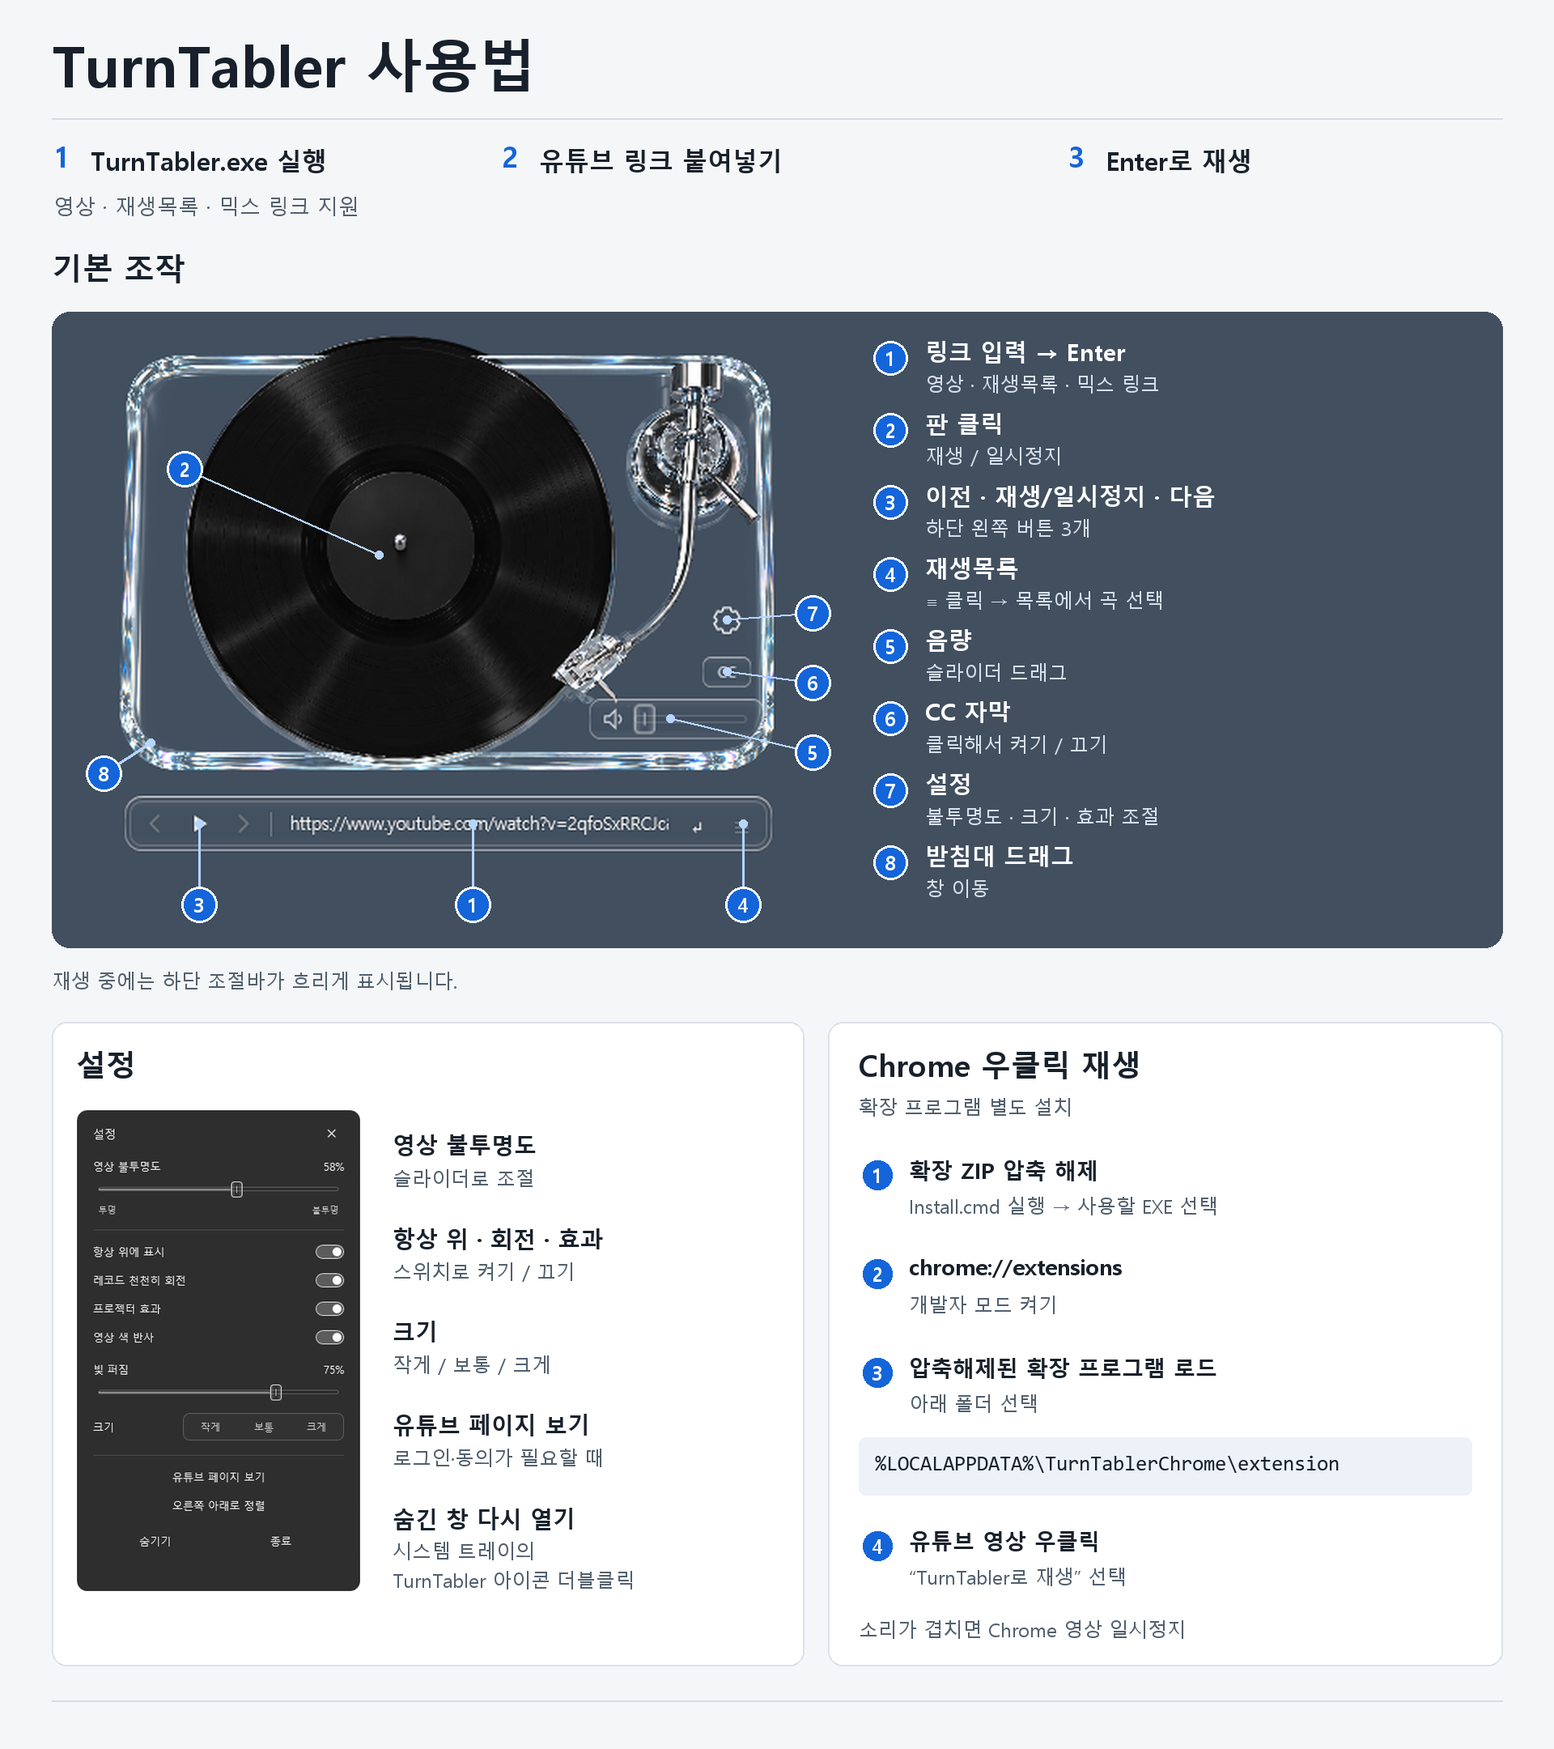
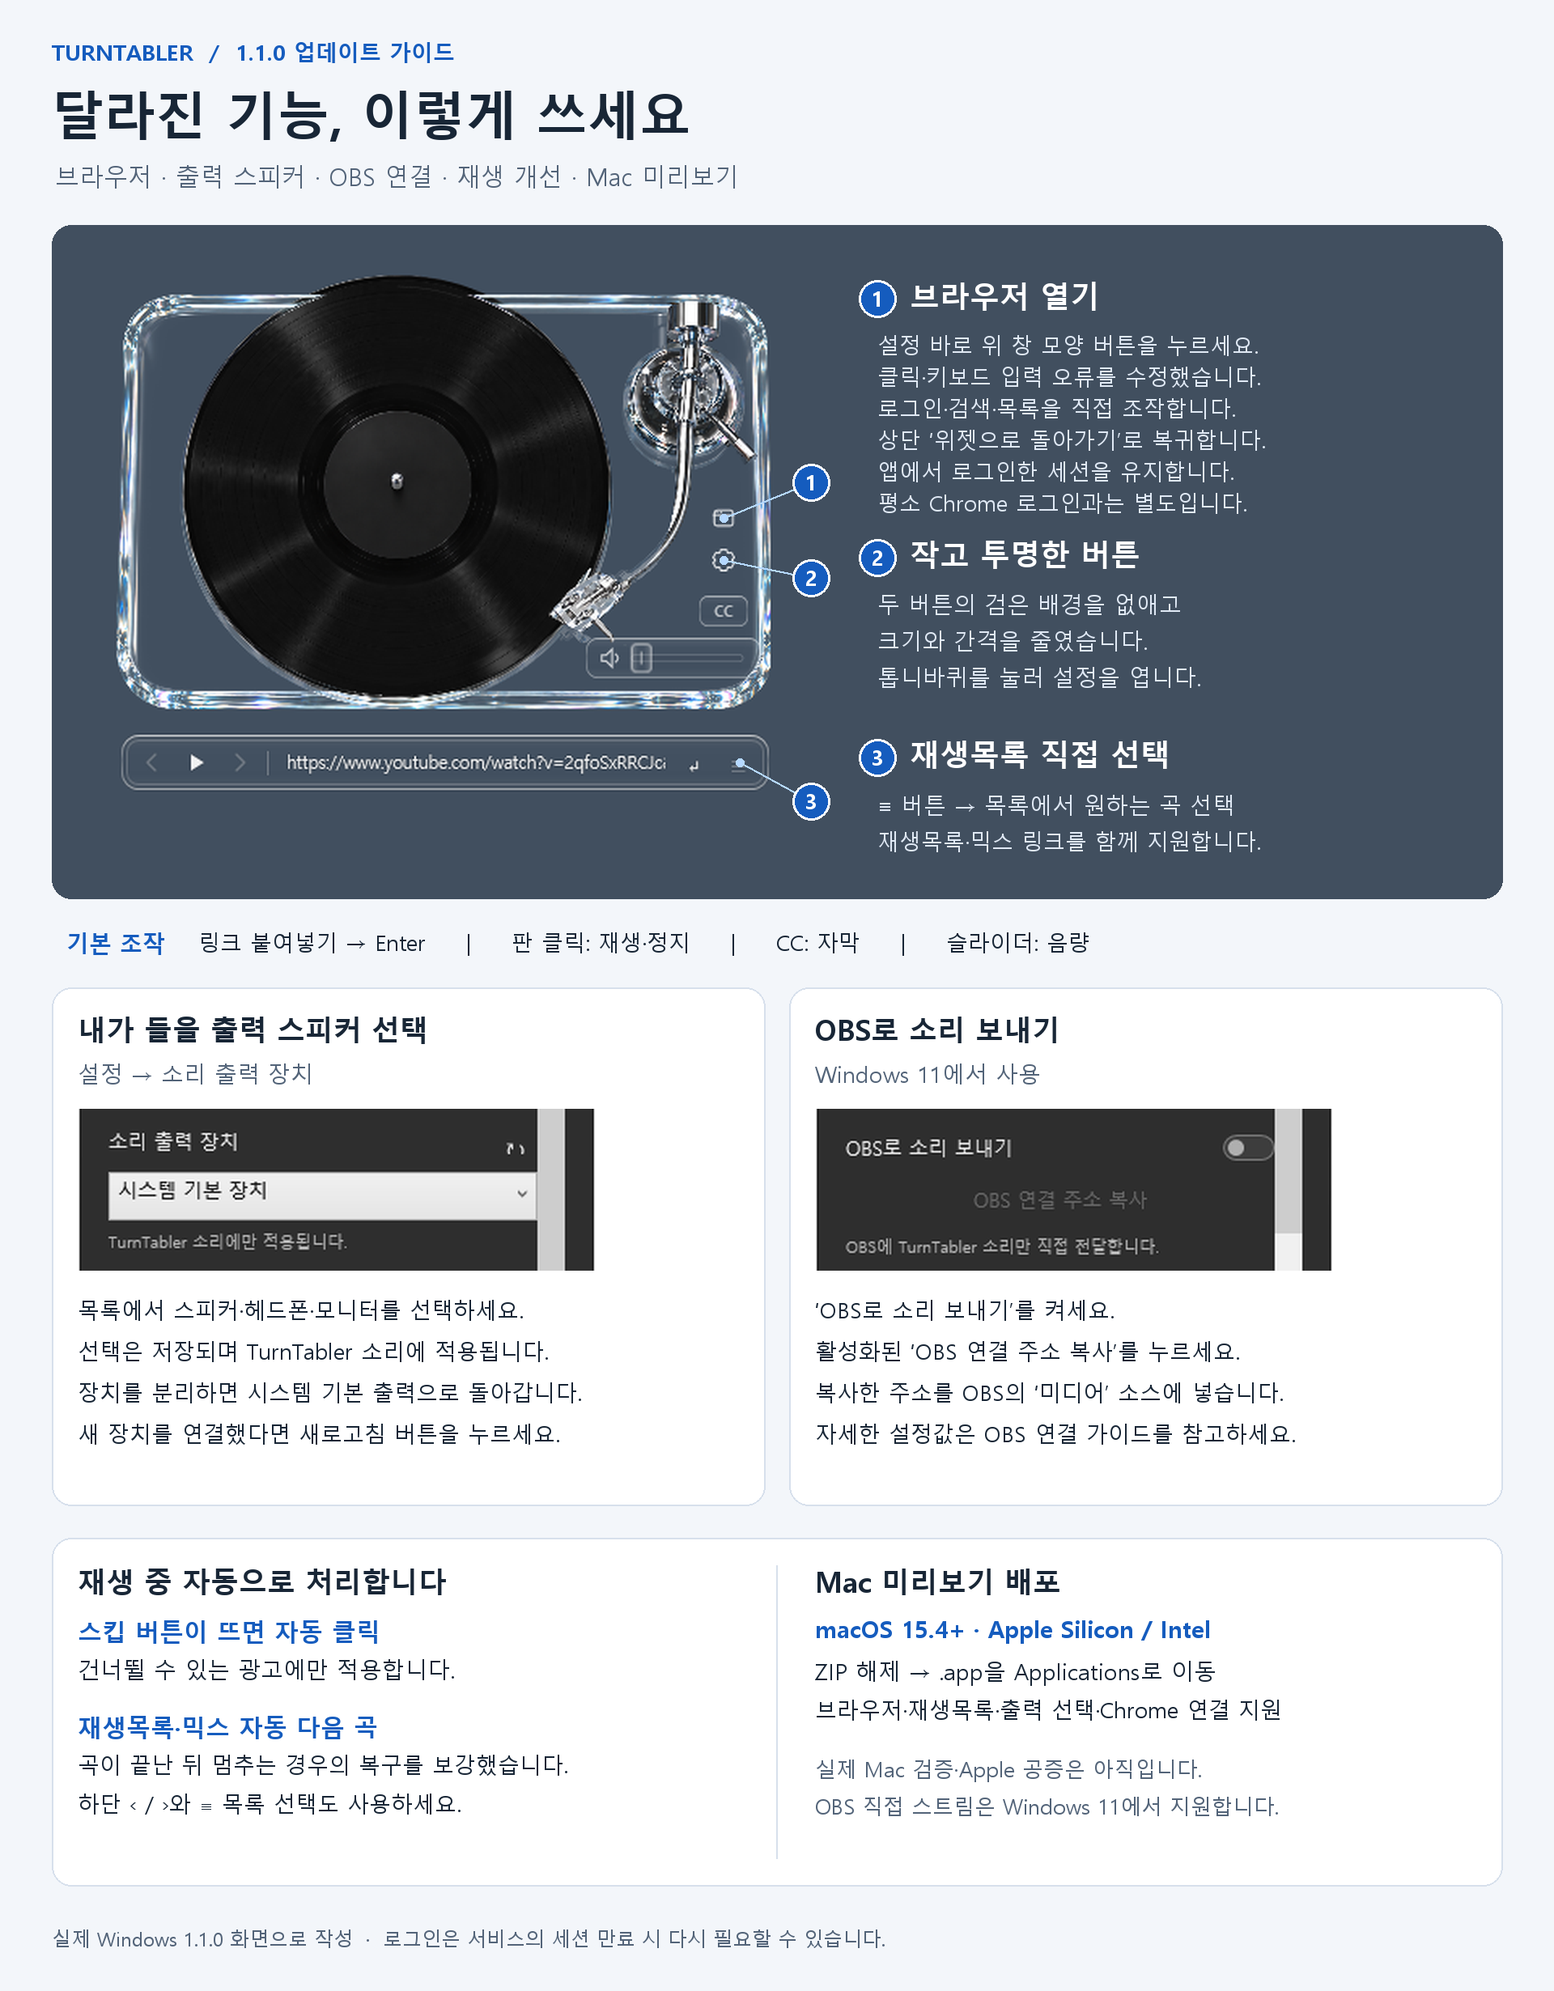
Publish 1.1.0 visual guides for new controls and OBS audio

diff --git a/scripts/create-usage-guide.py b/scripts/create-usage-guide.py
@@ -1,132 +1,213 @@
-"""Compose the guide from screenshots captured by the running native app."""
+"""Lay out Korean release guides using unmodified captures of the 1.1.0 app.
+
+Run publish.ps1 -Test first to refresh artifacts/single-file, then this script.
+Screenshots are cropped/resized without changing their controls or displayed state.
+"""
 from pathlib import Path
 from PIL import Image, ImageDraw, ImageFont
 
 ROOT = Path(__file__).resolve().parents[1]
-CAPTURES = ROOT / 'artifacts' / 'guide-captures'
-OUTPUT = ROOT / 'output' / 'TurnTabler-guide-ko.png'
-W, H = 1920, 2160
-PAGE = '#f5f6f8'
-INK = '#18212b'
-MUTED = '#52606e'
-BLUE = '#1465d9'
-DECK = '#414f5f'
-canvas = Image.new('RGB', (W, H), PAGE)
-draw = ImageDraw.Draw(canvas)
+CAPTURES = ROOT / 'artifacts' / 'single-file'
+OUTPUT = ROOT / 'output'
+W = 1920
+PAGE, INK, MUTED = '#f3f6fa', '#182636', '#536479'
+BLUE, PALE, BORDER, DECK = '#155cbe', '#e7effb', '#d7e0ec', '#414f5f'
+
 
 def font(size, bold=False, mono=False):
     name = 'consola.ttf' if mono else 'malgunbd.ttf' if bold else 'malgun.ttf'
     return ImageFont.truetype(str(Path('C:/Windows/Fonts') / name), size)
 
-def text(x, y, value, size=30, bold=False, fill=INK, mono=False):
-    draw.text((x, y), value, font=font(size, bold, mono), fill=fill, anchor='lt')
 
-def line(x1, y1, x2, y2, fill='#d5dce4', width=2):
-    draw.line((x1, y1, x2, y2), fill=fill, width=width)
+class Guide:
+    def __init__(self, height):
+        self.image = Image.new('RGB', (W, height), PAGE)
+        self.draw = ImageDraw.Draw(self.image)
 
-def badge(x, y, number, radius=22, fill=BLUE):
-    draw.ellipse((x-radius, y-radius, x+radius, y+radius), fill=fill, outline='white', width=3)
-    draw.text((x, y-1), str(number), font=font(25, True), fill='white', anchor='mm')
+    def text(self, x, y, value, size=28, bold=False, fill=INK, mono=False, width=None):
+        face = font(size, bold, mono)
+        available = width if width is not None else W - 64 - x
+        assert self.draw.textlength(value, font=face) <= available, f'Text too wide: {value}'
+        self.draw.text((x, y), value, font=face, fill=fill, anchor='lt')
 
-def screenshot(filename, box):
-    # Preserve the captured UI; only resize and alpha-composite onto the page.
-    img = Image.open(CAPTURES / filename).convert('RGBA')
-    x, y, width, height = box
-    assert abs(height - img.height * width / img.width) <= 0.5, 'Do not distort screenshots'
-    img = img.resize((width, height), Image.Resampling.LANCZOS)
-    canvas.paste(img, (x, y), img)
+    def line(self, x1, y1, x2, y2, fill=BORDER, width=2):
+        self.draw.line((x1, y1, x2, y2), fill=fill, width=width)
 
-text(64, 48, 'TurnTabler 사용법', 70, True)
-line(64, 146, 1856, 146)
+    def card(self, box, fill='white', outline=BORDER, radius=24):
+        self.draw.rounded_rectangle(box, radius, fill=fill, outline=outline, width=2)
 
-text(66, 181, '1', 35, True, BLUE)
-text(112, 184, 'TurnTabler.exe 실행', 31, True)
-text(620, 181, '2', 35, True, BLUE)
-text(666, 184, '유튜브 링크 붙여넣기', 31, True)
-text(1320, 181, '3', 35, True, BLUE)
-text(1366, 184, 'Enter로 재생', 31, True)
-text(66, 243, '영상 · 재생목록 · 믹스 링크 지원', 26, fill=MUTED)
+    def badge(self, x, y, number, radius=23):
+        self.draw.ellipse((x-radius, y-radius, x+radius, y+radius), fill=BLUE, outline='white', width=3)
+        self.draw.text((x, y-1), str(number), font=font(26, True), fill='white', anchor='mm')
 
-text(64, 314, '기본 조작', 38, True)
-draw.rounded_rectangle((64, 385, 1856, 1170), 22, fill=DECK)
-# Actual app capture, at 2x; no fabricated UI elements.
-sx, sy = 94, 385
-screenshot('idle-on-background.png', (sx, sy, 920, 780))
+    def screenshot(self, filename, x, y, width, crop=None):
+        with Image.open(CAPTURES / filename) as source:
+            source = source.convert('RGBA')
+            if crop:
+                source = source.crop(crop)
+            height = round(source.height * width / source.width)
+            source = source.resize((width, height), Image.Resampling.LANCZOS)
+            self.image.paste(source, (x, y), source)
+            return height
+
+    def arrow(self, x1, y, x2):
+        self.line(x1, y, x2, y, BLUE, 5)
+        self.draw.polygon([(x2, y), (x2-17, y-11), (x2-17, y+11)], fill=BLUE)
+
+    def save(self, name):
+        OUTPUT.mkdir(parents=True, exist_ok=True)
+        target = OUTPUT / name
+        self.image.save(target, optimize=True)
+        print(target)
+
+
+with Image.open(CAPTURES / 'idle-on-background.png') as capture:
+    assert capture.size == (460, 390)
+with Image.open(CAPTURES / 'tray-options.png') as capture:
+    assert capture.size == (320, 650), 'Refresh the captures with the 1.1.0 app'
+
+g = Guide(2460)
+g.text(64, 52, 'TURNTABLER  /  1.1.0 업데이트 가이드', 27, True, BLUE)
+g.text(64, 112, '달라진 기능, 이렇게 쓰세요', 64, True)
+g.text(68, 204, '브라우저 · 출력 스피커 · OBS 연결 · 재생 개선 · Mac 미리보기', 30, fill=MUTED)
+g.card((64, 278, 1856, 1110), DECK, DECK)
+sx, sy = 90, 310
+g.screenshot('idle-on-background.png', sx, sy, 920)
+
 
 def callout(number, target, marker):
     tx, ty = sx + target[0]*2, sy + target[1]*2
     mx, my = sx + marker[0]*2, sy + marker[1]*2
-    line(tx, ty, mx, my, '#b6d5ff', 3)
-    draw.ellipse((tx-5, ty-5, tx+5, ty+5), fill='#b6d5ff')
-    badge(mx, my, number)
+    g.line(tx, ty, mx, my, '#b5d8ff', 3)
+    g.draw.ellipse((tx-5, ty-5, tx+5, ty+5), fill='#b5d8ff')
+    g.badge(mx, my, number)
 
-callout(1, (245, 316), (245, 366))
-callout(2, (187, 150), (67, 97))
-callout(3, (76, 316), (76, 366))
-callout(4, (412, 316), (412, 366))
-callout(5, (367, 251), (455, 272))
-callout(6, (402, 222), (455, 229))
-callout(7, (402, 190), (455, 186))
-callout(8, (46, 266), (17, 285))
 
-items = [
-    ('링크 입력 → Enter', '영상 · 재생목록 · 믹스 링크'),
-    ('판 클릭', '재생 / 일시정지'),
-    ('이전 · 재생/일시정지 · 다음', '하단 왼쪽 버튼 3개'),
-    ('재생목록', '≡ 클릭 → 목록에서 곡 선택'),
-    ('음량', '슬라이더 드래그'),
-    ('CC 자막', '클릭해서 켜기 / 끄기'),
-    ('설정', '불투명도 · 크기 · 효과 조절'),
-    ('받침대 드래그', '창 이동'),
-]
-for index, (heading, body) in enumerate(items, 1):
-    y = 421 + (index-1)*89
-    badge(1100, y+21, index, 21)
-    text(1143, y, heading, 29, True, 'white')
-    text(1143, y+42, body, 24, fill='#d7e1ec')
+callout(1, (402, 165), (456, 143))
+callout(2, (402, 191), (456, 202))
+callout(3, (412, 316), (456, 340))
+g.badge(1084, 369, 1)
+g.text(1124, 348, '브라우저 열기', 37, True, 'white')
+for index, value in enumerate([
+    '설정 바로 위 창 모양 버튼을 누르세요.',
+    '클릭·키보드 입력 오류를 수정했습니다.',
+    '로그인·검색·목록을 직접 조작합니다.',
+    '상단 ‘위젯으로 돌아가기’로 복귀합니다.',
+    '앱에서 로그인한 세션을 유지합니다.',
+    '평소 Chrome 로그인과는 별도입니다.',
+]):
+    g.text(1084, 414 + index*39, value, 27, fill='#e0e9f5', width=732)
+g.badge(1084, 689, 2)
+g.text(1124, 668, '작고 투명한 버튼', 37, True, 'white')
+g.text(1084, 734, '두 버튼의 검은 배경을 없애고', 28, fill='#e0e9f5')
+g.text(1084, 779, '크기와 간격을 줄였습니다.', 28, fill='#e0e9f5')
+g.text(1084, 824, '톱니바퀴를 눌러 설정을 엽니다.', 28, fill='#e0e9f5')
+g.badge(1084, 936, 3)
+g.text(1124, 915, '재생목록 직접 선택', 37, True, 'white')
+g.text(1084, 982, '≡ 버튼 → 목록에서 원하는 곡 선택', 28, fill='#e0e9f5')
+g.text(1084, 1027, '재생목록·믹스 링크를 함께 지원합니다.', 27, fill='#e0e9f5')
+g.text(82, 1152, '기본 조작', 28, True, BLUE)
+g.text(245, 1152, '링크 붙여넣기 → Enter     |     판 클릭: 재생·정지     |     CC: 자막     |     슬라이더: 음량', 27)
 
-text(64, 1200, '재생 중에는 하단 조절바가 흐리게 표시됩니다.', 24, fill=MUTED)
+g.card((64, 1220, 945, 1860))
+g.text(96, 1256, '내가 들을 출력 스피커 선택', 35, True)
+g.text(96, 1314, '설정 → 소리 출력 장치', 28, fill=MUTED)
+g.screenshot('tray-options.png', 96, 1370, 640, (0, 390, 320, 490))
+for index, value in enumerate([
+    '목록에서 스피커·헤드폰·모니터를 선택하세요.',
+    '선택은 저장되며 TurnTabler 소리에 적용됩니다.',
+    '장치를 분리하면 시스템 기본 출력으로 돌아갑니다.',
+    '새 장치를 연결했다면 새로고침 버튼을 누르세요.',
+]):
+    g.text(96, 1606 + index*51, value, 27, width=817)
+g.card((975, 1220, 1856, 1860))
+g.text(1007, 1256, 'OBS로 소리 보내기', 35, True)
+g.text(1007, 1314, 'Windows 11에서 사용', 28, fill=MUTED)
+g.screenshot('tray-options.png', 1007, 1370, 640, (0, 491, 320, 591))
+for index, value in enumerate([
+    '‘OBS로 소리 보내기’를 켜세요.',
+    '활성화된 ‘OBS 연결 주소 복사’를 누르세요.',
+    '복사한 주소를 OBS의 ‘미디어’ 소스에 넣습니다.',
+    '자세한 설정값은 OBS 연결 가이드를 참고하세요.',
+]):
+    g.text(1007, 1606 + index*51, value, 27, width=817)
 
-# The settings image is also a capture from the running native application.
-draw.rounded_rectangle((64, 1262, 993, 2057), 18, fill='white', outline='#dce1e8', width=2)
-text(94, 1298, '설정', 37, True)
-screenshot('tray-options.png', (94, 1370, 352, 596))
+g.card((64, 1900, 1856, 2330))
+g.line(959, 1934, 959, 2296)
+g.text(96, 1938, '재생 중 자동으로 처리합니다', 35, True)
+g.text(96, 2002, '스킵 버튼이 뜨면 자동 클릭', 30, True, BLUE)
+g.text(96, 2050, '건너뛸 수 있는 광고에만 적용합니다.', 28)
+g.text(96, 2120, '재생목록·믹스 자동 다음 곡', 30, True, BLUE)
+g.text(96, 2168, '곡이 끝난 뒤 멈추는 경우의 복구를 보강했습니다.', 27, width=823)
+g.text(96, 2216, '하단 ‹ / ›와 ≡ 목록 선택도 사용하세요.', 27)
+g.text(1007, 1938, 'Mac 미리보기 배포', 35, True)
+g.text(1007, 2002, 'macOS 15.4+ · Apple Silicon / Intel', 29, True, BLUE)
+g.text(1007, 2052, 'ZIP 해제 → .app을 Applications로 이동', 28)
+g.text(1007, 2100, '브라우저·재생목록·출력 선택·Chrome 연결 지원', 27, width=817)
+g.text(1007, 2174, '실제 Mac 검증·Apple 공증은 아직입니다.', 26, fill=MUTED)
+g.text(1007, 2220, 'OBS 직접 스트림은 Windows 11에서 지원합니다.', 26, fill=MUTED, width=817)
+g.text(64, 2384, '실제 Windows 1.1.0 화면으로 작성  ·  로그인은 서비스의 세션 만료 시 다시 필요할 수 있습니다.', 24, fill=MUTED)
+g.save('TurnTabler-guide-ko.png')
 
-settings_notes = [
-    ('영상 불투명도', ['슬라이더로 조절']),
-    ('항상 위 · 회전 · 효과', ['스위치로 켜기 / 끄기']),
-    ('크기', ['작게 / 보통 / 크게']),
-    ('유튜브 페이지 보기', ['로그인·동의가 필요할 때']),
-    ('숨긴 창 다시 열기', ['시스템 트레이의', 'TurnTabler 아이콘 더블클릭']),
-]
-for i, (heading, body) in enumerate(settings_notes):
-    y = 1401 + i*115
-    text(485, y, heading, 28, True)
-    for j, row in enumerate(body):
-        text(485, y+43+j*36, row, 24, fill=MUTED)
+g = Guide(2180)
+g.text(64, 52, 'TURNTABLER 1.1.0  /  WINDOWS 11  /  OBS 32.2', 27, True, BLUE)
+g.text(64, 112, 'TurnTabler 소리를 OBS로', 64, True)
+g.text(68, 204, '앱에서 연결 주소를 복사해 OBS의 ‘미디어’ 소스에 넣으면 됩니다.', 30, fill=MUTED)
+g.card((64, 278, 1856, 410), PALE, PALE)
+g.text(112, 325, 'TurnTabler 재생', 37, True, BLUE)
+g.arrow(475, 346, 617)
+g.text(690, 325, 'OBS ‘미디어’ 소스', 37, True, BLUE)
+g.text(1210, 309, '내가 듣는 스피커는 그대로 사용', 27, True)
+g.text(1210, 355, '가상 오디오 드라이버 설치 불필요', 26, fill=MUTED)
 
-draw.rounded_rectangle((1023, 1262, 1856, 2057), 18, fill='white', outline='#dce1e8', width=2)
-text(1061, 1298, 'Chrome 우클릭 재생', 37, True)
-text(1061, 1356, '확장 프로그램 별도 설치', 24, fill=MUTED)
+g.card((64, 452, 840, 1284))
+g.badge(110, 507, 1)
+g.text(150, 485, '앱 설정에서 켜기', 37, True)
+g.text(96, 562, '설정 → OBS로 소리 보내기 → 켜기', 29, width=712)
+g.screenshot('tray-options.png', 104, 626, 640, (0, 390, 320, 594))
+g.text(96, 1084, 'OBS 연결 주소 복사', 32, True, BLUE)
+g.text(96, 1138, '복사한 주소를 OBS 입력칸에 붙여넣으세요.', 27, width=712)
+g.text(96, 1196, '위 화면은 켜기 전 상태입니다.', 24, fill=MUTED)
+g.text(96, 1234, '스위치를 켜면 복사 버튼이 활성화됩니다.', 24, fill=MUTED)
+g.card((880, 452, 1856, 1284))
+g.badge(926, 507, 2)
+g.text(966, 485, 'OBS에 ‘미디어’ 소스 추가', 37, True)
+g.text(912, 562, '소스 목록의 + → 미디어 → 이름: TurnTabler Audio', 27, width=912)
+for index, (label, value) in enumerate([
+    ('로컬 파일', '체크 해제'),
+    ('입력', '앱에서 복사한 주소'),
+    ('입력 형식', 'wav'),
+    ('재접속 지연', '1초'),
+]):
+    y = 638 + index*72
+    g.text(928, y, label, 29, True, width=285)
+    g.text(1255, y, value, 29, fill=BLUE, width=553)
+    g.line(912, y+52, 1824, y+52)
+g.text(928, 944, 'FFmpeg 설정', 29, True)
+g.card((912, 994, 1824, 1068), '#edf2f8', '#edf2f8', 12)
+g.text(933, 1018, 'ignore_length=1 analyzeduration=0 probesize=4096', 28, mono=True, width=870)
+g.text(928, 1110, '비활성화 상태일 때 파일 닫기', 27, True, width=617)
+g.text(1633, 1110, '체크 해제', 27, fill=BLUE)
+g.text(928, 1174, '네트워크 버퍼링', 27, True)
+g.text(1633, 1174, '1 MB', 27, fill=BLUE)
 
-steps = [
-    (1433, '확장 ZIP 압축 해제', 'Install.cmd 실행 → 사용할 EXE 선택'),
-    (1555, 'chrome://extensions', '개발자 모드 켜기'),
-    (1677, '압축해제된 확장 프로그램 로드', '아래 폴더 선택'),
-    (1891, '유튜브 영상 우클릭', '“TurnTabler로 재생” 선택'),
-]
-for i, (y, heading, body) in enumerate(steps, 1):
-    badge(1084, y+18, i, 21)
-    text(1123, y, heading, 27, True)
-    text(1123, y+45, body, 24, fill=MUTED)
-
-draw.rounded_rectangle((1061, 1775, 1818, 1846), 8, fill='#edf2f8')
-path = r'%LOCALAPPDATA%\TurnTablerChrome\extension'
-assert draw.textlength(path, font=font(26, mono=True)) < 720
-text(1081, 1797, path, 26, mono=True)
-text(1061, 2001, '소리가 겹치면 Chrome 영상 일시정지', 24, fill=MUTED)
-
-line(64, 2100, 1856, 2100)
-OUTPUT.parent.mkdir(parents=True, exist_ok=True)
-canvas.save(OUTPUT, optimize=True)
-print(OUTPUT)
+g.card((64, 1330, 1856, 1890))
+g.badge(110, 1388, 3)
+g.text(150, 1366, '소리 확인', 37, True)
+for x, title, rows in [
+    (104, '앱에서 재생', ['TurnTabler로 영상을 재생합니다.', '앱 볼륨을 0보다 높게 두세요.']),
+    (700, 'OBS 오디오 미터 확인', ['‘TurnTabler Audio’의 음량 막대가', '움직이는지 확인하세요.']),
+    (1296, '짧게 녹화 후 재생', ['녹화 파일을 열어 실제 소리가', '들리는지 확인하세요.']),
+]:
+    g.text(x, 1472, title, 31, True, BLUE, width=500)
+    for index, row in enumerate(rows):
+        g.text(x, 1532 + index*44, row, 26, width=500)
+g.line(96, 1650, 1824, 1650)
+g.text(104, 1692, '소리가 겹칠 때', 31, True)
+g.text(104, 1750, '오디오 고급 설정 → 오디오 모니터링 → ‘모니터링 끔’', 29)
+g.text(104, 1802, '같은 소리를 함께 받는 ‘데스크톱 오디오’도 끄세요.', 29)
+g.card((64, 1930, 1856, 2070), PALE, PALE)
+g.text(104, 1964, 'TurnTabler를 실행한 상태에서 사용하세요. 앱을 종료하면 소리 전달도 끝납니다.', 29, True)
+g.text(104, 2015, '다시 실행하고 재생하면 저장된 같은 주소로 연결됩니다.', 27, fill=MUTED)
+g.text(64, 2120, 'Windows 11용 직접 연결 안내  ·  Windows 10과 Mac 미리보기에는 이 직접 스트림 기능이 없습니다.', 24, fill=MUTED)
+g.save('TurnTabler-OBS-guide-ko.png')
